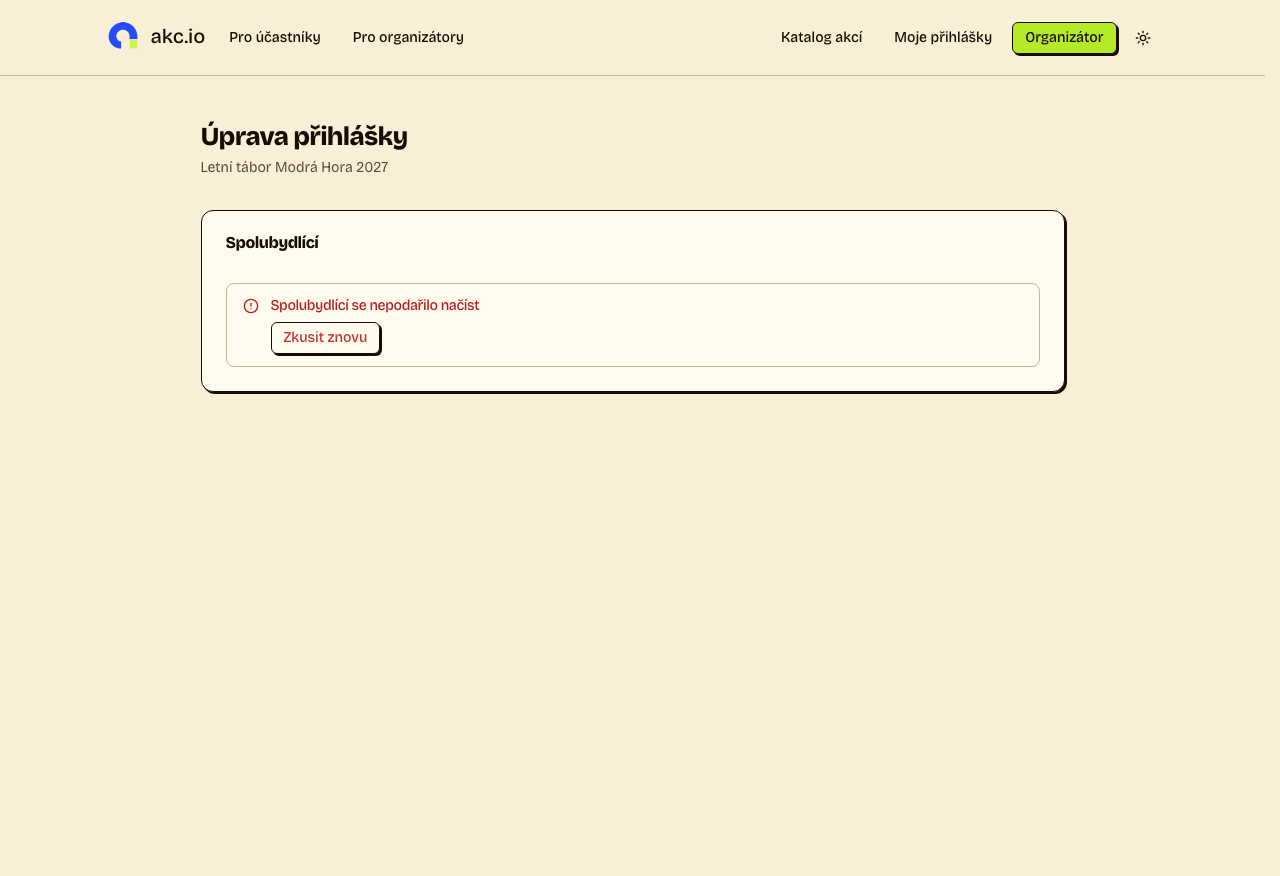
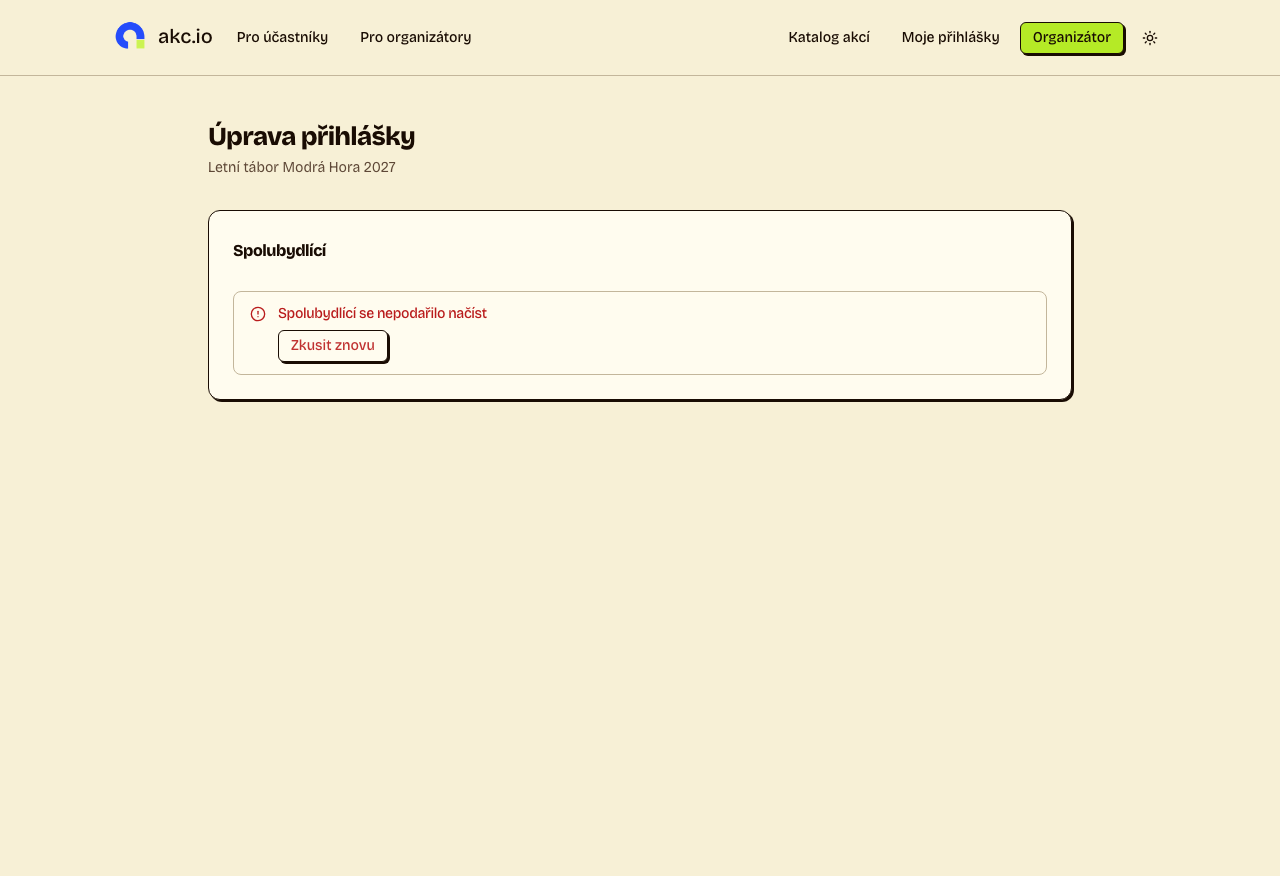
fix(registrations): align the roommate wishes card and keep flows out of the sidebar (S4-05)
The card title is centred against its action button, and "Přidat
spolubydlícího" shares one row with "Zrušit" and "Uložit". Storybook lists
only the states, including the open form; the click-through flows stay as
tests but are hidden from the sidebar. Screenshots retaken without the
cropped dialog backdrop.

diff --git a/apps/frontend/src/features/registrations/components/RoommateWishesCard.tsx b/apps/frontend/src/features/registrations/components/RoommateWishesCard.tsx
@@ -8,7 +8,7 @@ import { LoadError } from "@/components/LoadError"
 import { LoadingBlock } from "@/components/LoadingBlock"
 import { PendingButton } from "@/components/PendingButton"
 import { Button } from "@/components/ui/button"
-import { Card, CardAction, CardContent, CardHeader, CardTitle } from "@/components/ui/card"
+import { Card, CardContent, CardHeader, CardTitle } from "@/components/ui/card"
 import {
   CommandDialog,
   CommandEmpty,
@@ -56,9 +56,10 @@ export function RoommateWishesCard({ registrationId }: RoommateWishesCardProps) 
 
   return (
     <Card>
-      <CardHeader>
+      {/* A flex row keeps the title centred against the taller action button. */}
+      <CardHeader className="flex min-h-8 items-center justify-between">
         <CardTitle>Spolubydlící</CardTitle>
-        {action ? <CardAction>{action}</CardAction> : null}
+        {action}
       </CardHeader>
       <CardContent>
         {data ? (
@@ -186,8 +187,15 @@ function WishesForm({ registrationId, data, selected, onChange, onDone }: Wishes
         </ul>
       ) : null}
 
-      {data.candidates.length > 0 ? (
-        <>
+      {data.candidates.length === 0 ? (
+        <p className="text-sm text-muted-foreground">{NO_CANDIDATES}</p>
+      ) : null}
+
+      {save.isError ? (
+        <FormError message="Spolubydlící se nepodařilo uložit. Výběr zůstává, zkuste to prosím znovu." />
+      ) : null}
+      <div className="flex flex-wrap items-center gap-2">
+        {data.candidates.length > 0 ? (
           <Button
             type="button"
             variant="outline"
@@ -198,62 +206,59 @@ function WishesForm({ registrationId, data, selected, onChange, onDone }: Wishes
             <Plus aria-hidden />
             Přidat spolubydlícího
           </Button>
-          {/* Stays open between picks; the selection above follows each one. */}
-          <CommandDialog
-            open={isPickerOpen}
-            onOpenChange={setIsPickerOpen}
-            title="Přidat spolubydlícího"
-            description="Vyberte potvrzené účastníky akce, se kterými chcete bydlet."
+        ) : null}
+        <div className="ml-auto flex gap-2">
+          <Button
+            type="button"
+            variant="outline"
+            disabled={save.isPending}
+            onClick={onDone}
           >
-            <CommandInput placeholder="Hledat účastníka…" />
-            <CommandList>
-              <CommandEmpty>Nikdo nenalezen.</CommandEmpty>
-              <CommandGroup>
-                {data.candidates.map((candidate) => {
-                  const isSelected = selected.includes(candidate.registrationId)
-                  return (
-                    <CommandItem
-                      key={candidate.registrationId}
-                      value={candidate.registrationId}
-                      keywords={[candidate.name]}
-                      aria-checked={isSelected}
-                      onSelect={() => toggle(candidate.registrationId)}
-                    >
-                      <Check
-                        aria-hidden
-                        className={cn(isSelected ? "opacity-100" : "opacity-0")}
-                      />
-                      {candidate.name}
-                    </CommandItem>
-                  )
-                })}
-              </CommandGroup>
-            </CommandList>
-          </CommandDialog>
-        </>
-      ) : (
-        <p className="text-sm text-muted-foreground">{NO_CANDIDATES}</p>
-      )}
-
-      {save.isError ? (
-        <FormError message="Spolubydlící se nepodařilo uložit. Výběr zůstává, zkuste to prosím znovu." />
-      ) : null}
-      <div className="flex flex-wrap justify-end gap-2">
-        <Button
-          type="button"
-          variant="outline"
-          disabled={save.isPending}
-          onClick={onDone}
-        >
-          Zrušit
-        </Button>
-        <PendingButton
-          type="submit"
-          isPending={save.isPending}
-        >
-          {save.isPending ? "Ukládám…" : "Uložit"}
-        </PendingButton>
+            Zrušit
+          </Button>
+          <PendingButton
+            type="submit"
+            isPending={save.isPending}
+          >
+            {save.isPending ? "Ukládám…" : "Uložit"}
+          </PendingButton>
+        </div>
       </div>
+
+      {data.candidates.length > 0 ? (
+        // Stays open between picks; the selection above follows each one.
+        <CommandDialog
+          open={isPickerOpen}
+          onOpenChange={setIsPickerOpen}
+          title="Přidat spolubydlícího"
+          description="Vyberte potvrzené účastníky akce, se kterými chcete bydlet."
+        >
+          <CommandInput placeholder="Hledat účastníka…" />
+          <CommandList>
+            <CommandEmpty>Nikdo nenalezen.</CommandEmpty>
+            <CommandGroup>
+              {data.candidates.map((candidate) => {
+                const isSelected = selected.includes(candidate.registrationId)
+                return (
+                  <CommandItem
+                    key={candidate.registrationId}
+                    value={candidate.registrationId}
+                    keywords={[candidate.name]}
+                    aria-checked={isSelected}
+                    onSelect={() => toggle(candidate.registrationId)}
+                  >
+                    <Check
+                      aria-hidden
+                      className={cn(isSelected ? "opacity-100" : "opacity-0")}
+                    />
+                    {candidate.name}
+                  </CommandItem>
+                )
+              })}
+            </CommandGroup>
+          </CommandList>
+        </CommandDialog>
+      ) : null}
     </form>
   )
 }

diff --git a/apps/frontend/src/not-implemented/RoommateWishes.stories.tsx b/apps/frontend/src/not-implemented/RoommateWishes.stories.tsx
@@ -102,8 +102,21 @@ export const NothingChosen: Story = {
   },
 }
 
+/** The form with the stored choice, ready to change. */
+export const Editing: Story = {
+  play: async ({ canvas }) => {
+    const form = await startEditing(canvas)
+    await expect(form.getByRole("button", { name: "Přidat spolubydlícího" })).toBeVisible()
+  },
+}
+
+// The flows below click through a whole change. They stay as tests but are
+// hidden from the Storybook sidebar, which shows only the states.
+const FLOW = ["!dev"]
+
 /** Several people picked by searching, then saved at once. */
 export const ChooseSeveral: Story = {
+  tags: FLOW,
   beforeEach: ({ msw }) => {
     msw.use(...registrationHandlers.roommateWishes(NO_WISHES))
   },
@@ -129,6 +142,7 @@ export const ChooseSeveral: Story = {
 
 /** One person removed and another added to the stored choice. */
 export const Change: Story = {
+  tags: FLOW,
   play: async ({ canvas }) => {
     const form = await startEditing(canvas)
     await userEvent.click(form.getByRole("button", { name: "Odebrat Barbora Kučerová" }))
@@ -144,6 +158,7 @@ export const Change: Story = {
 
 /** Every wish removed: back to nobody chosen. */
 export const RemoveAll: Story = {
+  tags: FLOW,
   play: async ({ canvas }) => {
     const form = await startEditing(canvas)
     await userEvent.click(form.getByRole("button", { name: "Odebrat Barbora Kučerová" }))
@@ -213,6 +228,7 @@ export const SaveFailed: Story = {
 
 /** A failed save keeps the selection; the next try stores it. */
 export const SaveFailedThenRetried: Story = {
+  tags: FLOW,
   beforeEach: ({ msw }) => {
     // The first save fails; later ones reach the meta's handler.
     let hasFailed = false
